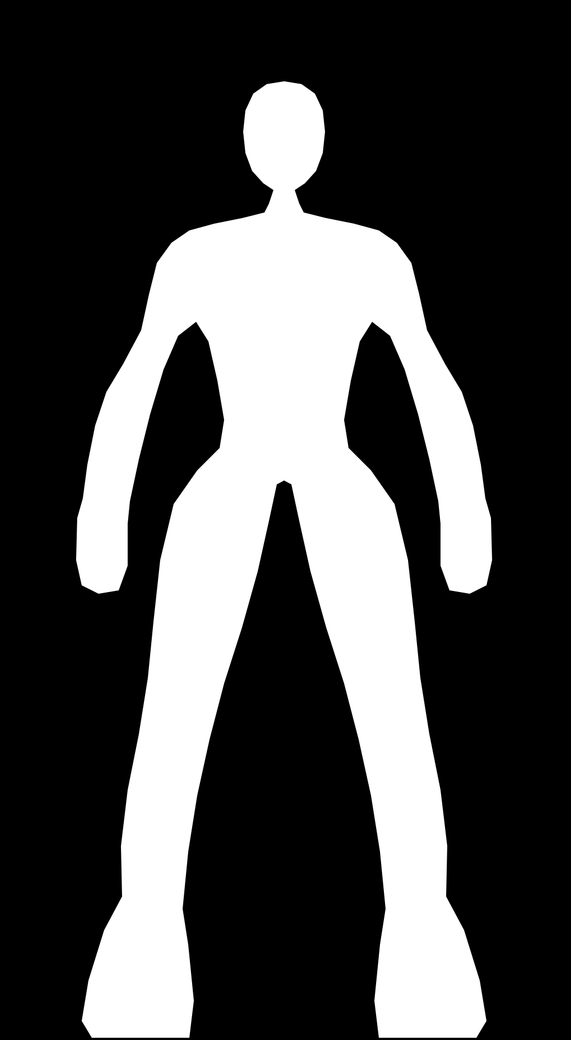
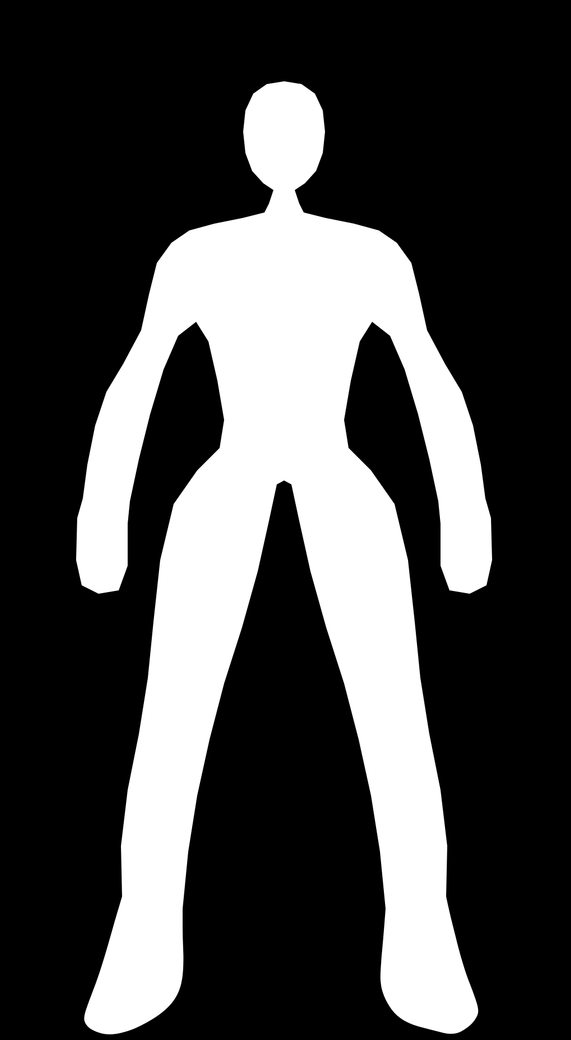
Rexonance undersuit: smooth feet instead of boxes
The bare undersuit's alpha was the body polygon's flat-soled box at each
foot, so at the undersuit stage the feet read angular. The registration
mask now takes UNDERSUIT_BODY (BODY with each foot traced as a smooth foot
inside its own boot), the Blender relief is re-rendered from it, and the
file is renamed undersuit-20261111.webp so no cached copy keeps the boxes.
BODY still guards the figure's cut: figure, plates and skin field unchanged.

Claude-Session: https://claude.ai/code/session_01JNjPvM87Vuiq6R7HiPhKpa

Changed region(s): [[0.1489, 0.8615, 0.3573, 1.0], [0.655, 0.8615, 0.8634, 1.0]]

diff --git a/src/lib/rexonance-suit.ts b/src/lib/rexonance-suit.ts
@@ -1,14 +1,14 @@
 // Generated by scripts/build-rexonance-suit.mjs from
 // design/rexonance-suit/rexonance-full-20261010.jpg — do not edit by hand.
 // Figure coordinates are delivery pixels of the 571 x 1040 figure.
-// 6 files, 616896 bytes.
+// 6 files, 616886 bytes.
 
 export const REXONANCE_SUIT_SIZE = { width: 571, height: 1040 } as const;
 
 /** The finished figure (the still tiers and the fallback). */
 export const REXONANCE_SUIT_FIGURE = "/rexonance-suit-20261023/figure.webp";
 /** The bare bodysuit the armour lands on. */
-export const REXONANCE_SUIT_UNDERSUIT = "/rexonance-suit-20261023/undersuit-20261021.webp";
+export const REXONANCE_SUIT_UNDERSUIT = "/rexonance-suit-20261023/undersuit-20261111.webp";
 
 export type RexonanceSuitLayer = {
   readonly src: string;
